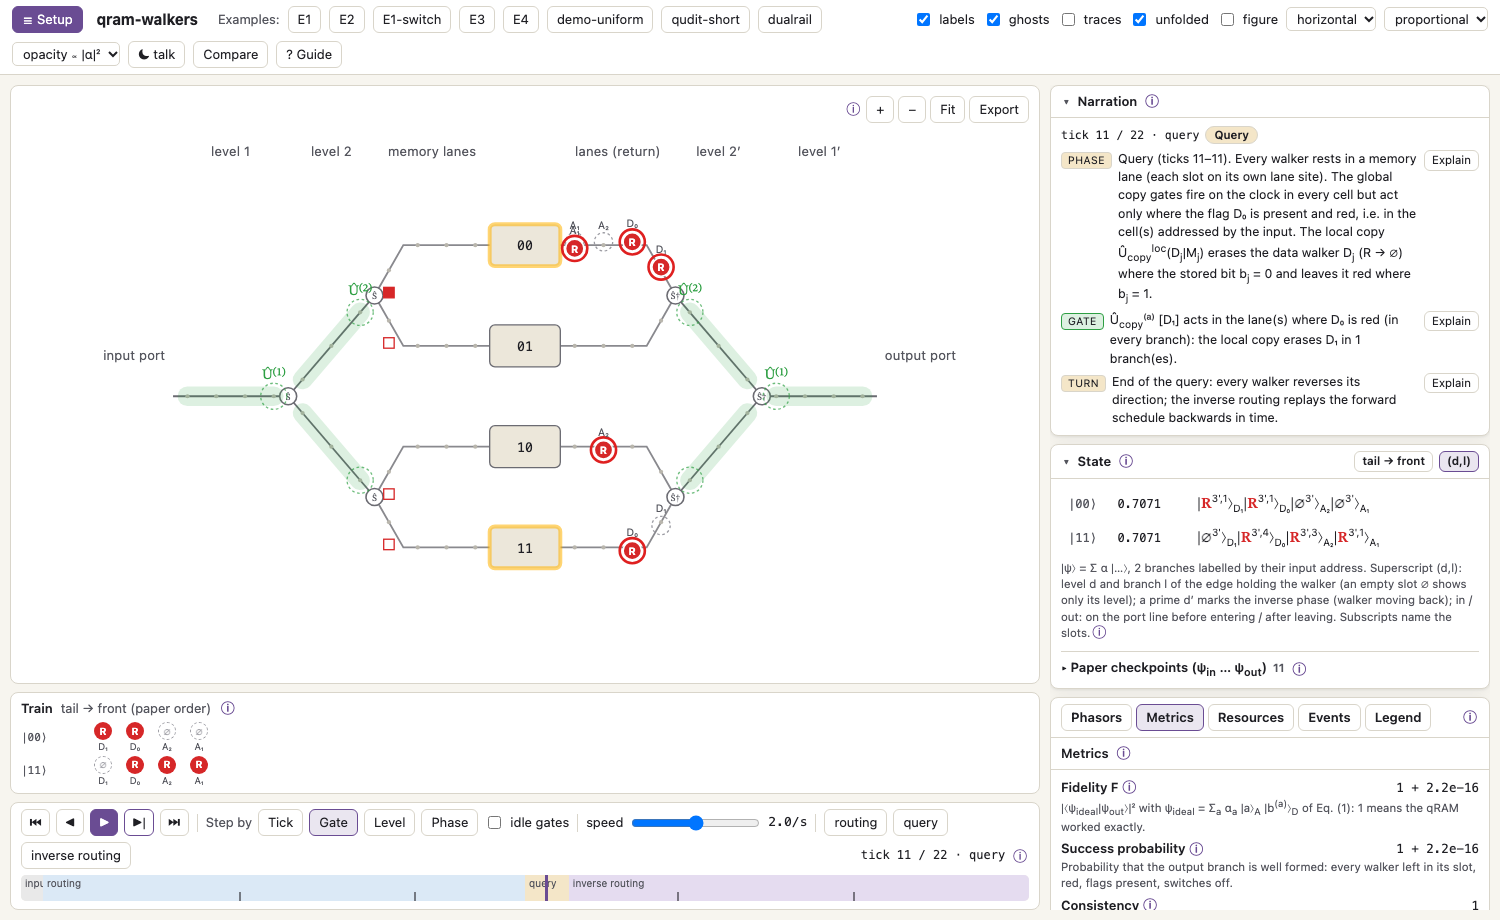
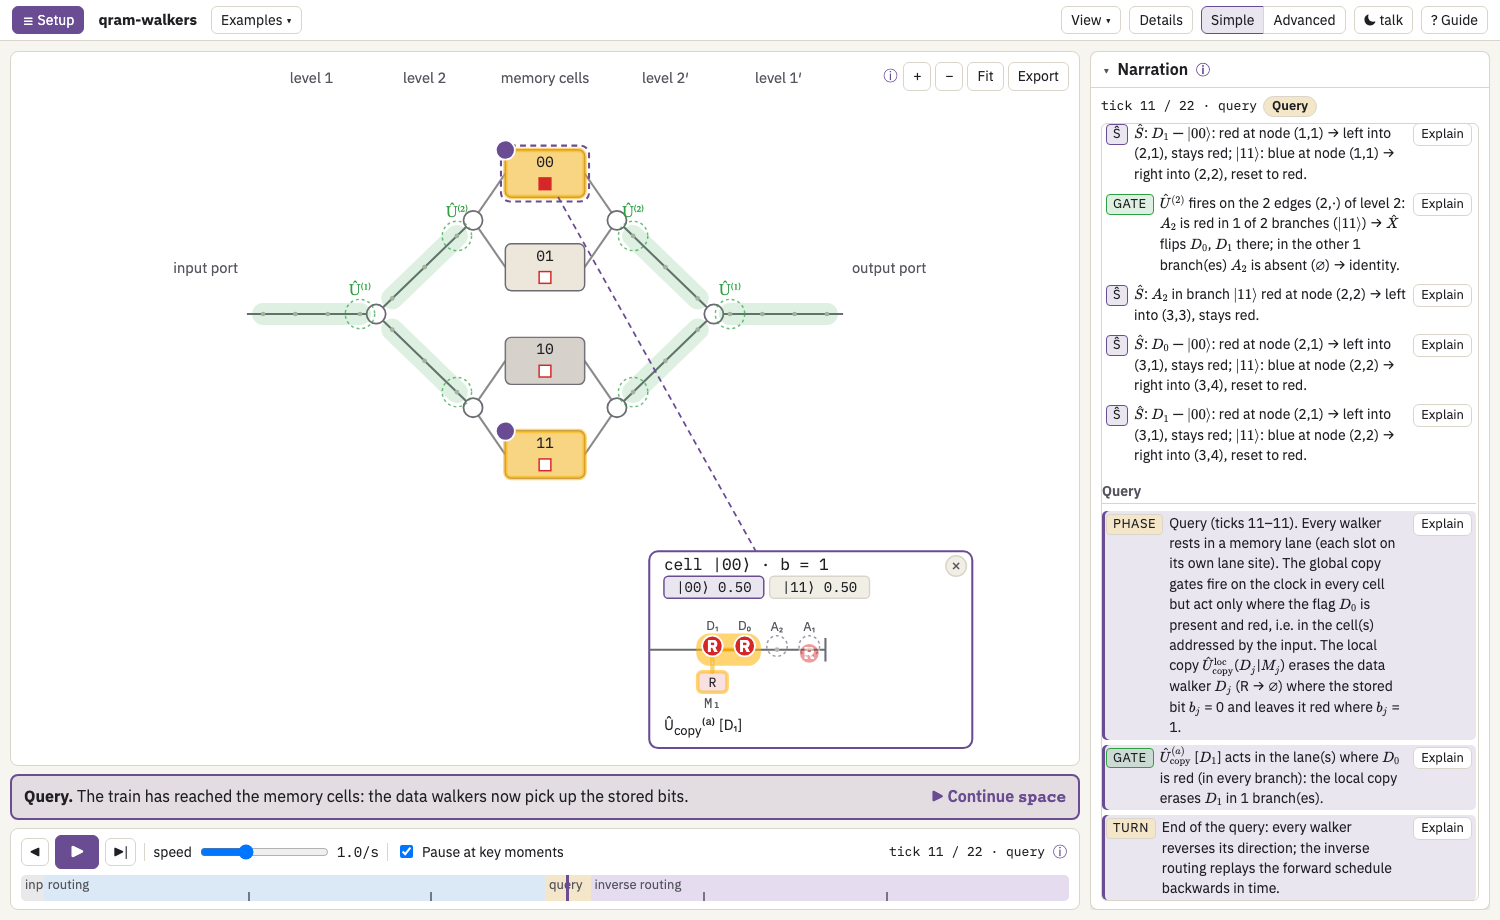
docs: the guide and the README describe Simple and Advanced modes

diff --git a/viewer/tests/guide.test.ts b/viewer/tests/guide.test.ts
@@ -13,7 +13,7 @@ const pages = Object.fromEntries(
 const REQUIRED: Record<string, string[]> = {
   start: ["start-tour", "start-help", "start-tasks"],
   controls: [
-    "controls", "controls-topbar", "controls-tree", "controls-export", "controls-playback", "controls-state", "controls-panels",
+    "controls", "controls-modes", "controls-topbar", "controls-tree", "controls-export", "controls-playback", "controls-state", "controls-panels",
     "controls-setup", "controls-input", "controls-memory", "controls-noise", "controls-options", "controls-presets",
     "controls-compare", "controls-guide",
   ],
@@ -38,7 +38,7 @@ const REQUIRED: Record<string, string[]> = {
     "noise-strays", "noise-collisions", "noise-absorb", "noise-ensembles",
     "noise-overrotation", "noise-imbalance", "noise-pruning",
   ],
-  ui: ["ui-canvas", "ui-export", "ui-figure", "ui-compare", "ui-static", "ui-playback", "ui-timeline", "ui-train", "ui-kets", "ui-phasors", "ui-narration", "ui-panels", "ui-events", "ui-legend", "ui-setup", "ui-memory", "ui-themes", "ui-keyboard", "ui-qudit", "ui-dualrail", "ui-lens"],
+  ui: ["ui-modes", "ui-canvas", "ui-export", "ui-figure", "ui-compare", "ui-static", "ui-playback", "ui-timeline", "ui-train", "ui-kets", "ui-phasors", "ui-narration", "ui-panels", "ui-events", "ui-legend", "ui-setup", "ui-memory", "ui-themes", "ui-keyboard", "ui-qudit", "ui-dualrail", "ui-lens"],
 };
 
 describe("user guide", () => {

diff --git a/docs/user-guide/controls.md b/docs/user-guide/controls.md
@@ -3,7 +3,28 @@
 Every button, field and menu of the interface, by where it is. Each one also has a tooltip;
 the [Interface](ui.md#ui-canvas) page explains what the drawings mean.
 
-## Top bar {#controls-topbar}
+## Simple and Advanced {#controls-modes}
+
+The interface has two modes, switched by **Simple** | **Advanced** in the top bar; the
+choice is remembered in this browser. **Simple**, the mode of a first visit, shows the
+tree large, a caption under it, the narration log and the few controls needed to watch a
+run; the other panels are one click away under **Details**. **Advanced** shows every panel
+and control at once. Both modes play the same run.
+
+| control (Simple) | what it does |
+|---|---|
+| **☰ Setup** | opens the [setup drawer](#controls-setup) |
+| **Examples** | a menu of ready-made [examples](#controls-presets), each with a one-line description; choosing one runs it |
+| **View** | a menu with the drawing options of the Advanced top bar: **labels**, **ghosts**, **traces**, **cell lens**, **unfolded**, **figure**, **orientation**, **spacing**, **opacity** (described [below](#controls-topbar)) |
+| **Details** | opens a drawer with the other panels, one at a time: **State**, **Metrics**, **Resources**, **Events**, **Phasors**, **Legend**, **Train** (the [train strip](ui.md#ui-train)); **×** or Esc closes it |
+| **Simple** / **Advanced** | switches mode |
+| **talk** / **paper** | the dark or the light theme |
+| **? Guide** | opens this guide |
+
+The Simple playback bar has ◀ and ▶| (one gate back or forward), ▶ / ⏸, **speed** and
+**Pause at key moments**, described [under Playback](#controls-playback).
+
+## Top bar (Advanced) {#controls-topbar}
 
 | control | what it does |
 |---|---|
@@ -19,6 +40,7 @@ the [Interface](ui.md#ui-canvas) page explains what the drawings mean.
 | **proportional** / **uniform** | edge lengths proportional to their number of sites, or all levels equally long |
 | **opacity ∝ \|α\|²** / **opacity ∝ \|α\|** | how strongly a branch is drawn according to its amplitude |
 | **talk** / **paper** | switches between the dark theme, for projectors, and the light one; the choice is remembered |
+| **Simple** / **Advanced** | switches [mode](#controls-modes) |
 | **Compare** | opens the [comparison](#controls-compare) of two variants |
 | **? Guide** | opens this guide |
 
@@ -59,7 +81,8 @@ the [Interface](ui.md#ui-canvas) page explains what the drawings mean.
 | **Level** | Shift + ← or → | a step goes to the next time the leading walker crosses a bifurcation |
 | **Phase** | | a step goes to the start of the next phase |
 | **idle gates** | | in Gate mode, also stops at gates that fired with no control walker to act on (they do nothing) |
-| **speed** | | clock ticks per second during playback |
+| **speed** | | clock ticks per second during playback (1 in Simple mode, 2 in Advanced, when the mode is chosen) |
+| **Pause at key moments** | | while playing, stops at the end of each level's gates, at the start of the query, at the start of the return trip and at the end, with a highlighted note under the tree; Space or a click on the note continues. On by default in Simple mode |
 | **routing**, **query**, **inverse routing** | | jump to the start of that phase |
 | counter | | the current tick and phase |
 | timeline | | click or drag to jump; the bands are the phases, the dark marks the gates that acted |
@@ -69,6 +92,7 @@ the [Interface](ui.md#ui-canvas) page explains what the drawings mean.
 | control | what it does |
 |---|---|
 | **▾** / **▸** on a panel | collapses or opens the panel |
+| a line of the narration | jumps to the tick of that event |
 | **Explain** | opens the guide at the definition of that event |
 | **tail → front** / **front → tail** | order of the factors in the kets: the paper's, or the train's |
 | **(d,l)** | shows or hides the position superscripts of the kets |

diff --git a/docs/user-guide/ui.md b/docs/user-guide/ui.md
@@ -5,6 +5,38 @@ colour and position you see comes from the engine; the viewer only draws and
 interpolates them. A run is chosen in **Setup**, computed by the engine, and then played
 back tick by tick.
 
+## Simple and Advanced {#ui-modes}
+
+**Simple** mode, the one of a first visit, is made for watching: the tree takes most of
+the window, a **caption** under it says in one sentence what is happening, the
+[narration](#ui-narration) log on the right keeps every sentence so far, and playback
+stops at the key moments of the run. The other panels are in the **Details** drawer, one at
+a time, and the drawing options in the **View** menu. **Advanced** mode shows everything
+at once: the train strip, the playback modes, the ket panel and the side tabs. The switch
+is in the top bar; the [Controls](controls.md#controls-modes) page lists what each mode
+has.
+
+**Guided playback.** With **Pause at key moments** ticked (the default in Simple mode),
+playback stops
+
+* at the end of the gates of each level, when the address walker $A_d$ has acted on the
+  walkers behind it;
+* when the train reaches the memory cells (the query);
+* when it turns back (the return trip, the exact time reversal of the routing);
+* at the end, when every walker has left the tree.
+
+A highlighted note under the tree says what has just happened; **Space** or a click on the
+note continues. Stepping and the timeline never stop at these moments.
+
+**Narrow windows.** Under 1100 pixels of width the panels move below the tree, which keeps
+at least 60% of the height of the window; scroll down to reach them.
+
+**Text size.** No text is drawn smaller than 13 pixels. When the tree is small on screen
+its labels are scaled back up; what then does not fit is shortened ("level 1" becomes "1",
+"input port, ↑ tree (logical 0)" becomes "input ↑") or left out (the letters inside the
+walkers and the nodes, the slot names, the cell addresses, gate labels that would overlap).
+Zoom in to see them again. Exports always carry every label at its natural size.
+
 ## The tree view {#ui-canvas}
 
 The centre of the screen is the binary tree in the **unfolded "H" layout**:
@@ -257,10 +289,14 @@ input superposition carried by the walkers.
 
 ## Narration {#ui-narration}
 
-Every event of the current tick explained in one sentence: which gate fired, on which
-edges, in which branches it acted and on which walkers; which walker crossed which
-bifurcation and where it went; injections, exits, phase changes. **Explain** opens the
-guide at the definition of the gate or phase.
+A log of the run so far, one sentence per event: which gate fired, on which edges, in
+which branches it acted and on which walkers; which walker crossed which bifurcation and
+where it went; injections, exits, phase changes. New lines appear at the bottom as the run
+advances and the log scrolls to keep them in view; the lines of the current tick are
+highlighted. Headers divide the log into the levels of the routing (**Level 1**,
+**Level 2**, …), the **Query** and the **Return** trip. Click a line to go back to its tick;
+**Explain** opens the guide at the definition of the gate or phase. Stepping back shortens
+the log to the current tick.
 
 ## Side panels {#ui-panels}
 
@@ -328,9 +364,9 @@ this browser.
 
 | key | action |
 |---|---|
-| Space | play / pause |
+| Space | play / pause; at a key moment of guided playback, continue |
 | → / ← | step forward / back in the current step mode |
 | Shift + → / ← | step by level |
 | Home / End | input / output state |
 | ? | open this page |
-| Esc | close the guide or the setup drawer |
+| Esc | close the guide, the setup drawer, the Details drawer or an open menu |

diff --git a/docs/user-guide/start.md b/docs/user-guide/start.md
@@ -12,19 +12,24 @@ companion with the gate tables of every variant, the *technical paper* (in prepa
 
 ## A two-minute tour {#start-tour}
 
-1. Click **E1** in the top bar: a classical address, $a = 10$. On the left of the tree the train
-   waits at the input port.
-2. Press **Space**. The train enters, the walkers change colour, the train splits at the
-   bifurcations, the data walker reaches cell $10$, reads the stored bit and everything comes
-   back. Press Space again to pause.
-3. Press **Home** and then **→** a few times: each step stops at the next gate that acted, and
-   the **Narration** panel says in words what happened. **Explain** opens the definition of
-   that gate here in the guide. The **State** panel shows the ket, in the paper's notation.
-4. Click **E2**: now the address is $(\ket{00} + \ket{11})/\sqrt2$. Each branch is drawn separately;
-   click a line in the State panel to highlight one branch and dim the other.
+The program opens in **Simple** mode on the example **E1**: a classical address, $a = 10$,
+and one stored bit per cell. On the left of the tree the train waits at the input port.
+
+1. Press **Space** (or ▶). The train enters, the walkers change colour, the train splits at
+   the bifurcations. Playback stops at the key moments (the end of each level, the query,
+   the return, the end) with a note under the tree; **Space** continues. The data walker
+   reaches cell $10$, reads the stored bit and everything comes back.
+2. The **Narration** log on the right keeps every sentence so far, under the headers
+   **Level 1**, **Level 2**, **Query**, **Return**. Click a line to go back to that tick;
+   **Explain** opens the definition of that gate here in the guide.
+3. Press **←** and **→**: each step goes to the previous or next gate that acted.
+   **Details** → **State** shows the quantum state of the walkers, in the paper's notation.
+4. In **Examples** choose **E2**: now the address is $(\ket{00} + \ket{11})/\sqrt2$. Each
+   branch is drawn separately.
 5. Open **☰ Setup** and change anything: the variant, the address bits, the memory, the noise.
    **Run** at the bottom computes it.
-6. Click **Compare** to watch the same input on another variant, on one clock.
+6. Switch to **Advanced** in the top bar to see every panel at once, the step modes and
+   **Compare**, which plays the same input on another variant, on one clock.
 
 Every number and position you see is computed by the simulation engine; the interface only
 draws them.
@@ -33,7 +38,8 @@ draws them.
 
 * **Hover** over any control: a tooltip says what it does.
 * **ⓘ** next to a panel or a control opens the guide at the right place.
-* **Explain** in the Narration panel opens the definition of what just happened.
+* **Explain** in the Narration log opens the definition of what just happened.
+* [Simple and Advanced](ui.md#ui-modes) explains the two modes of the interface.
 * The [Controls](controls.md#controls) page describes every button, field and menu.
 
 ## I want to… {#start-tasks}

diff --git a/README.md b/README.md
@@ -14,7 +14,12 @@ The protocol is described in the letter arXiv:2508.02855 (*the paper*) and in a 
 *technical paper* (in preparation), with the gate tables of every variant; the guide cites
 them as "the paper" and "technical paper, §Section".
 
-![The viewer on the worked example E2](docs/figures/app.png)
+![The viewer in Simple mode on the worked example E2, paused when the train reaches the memory cells](docs/figures/app.png)
+
+The viewer opens in **Simple** mode: a large tree, a caption, the narration as a log and
+pauses at the key moments of the run. **Advanced** mode shows every panel at once:
+
+![The viewer in Advanced mode on the worked example E2, during the query](docs/figures/app-advanced.png)
 
 ## Install and run
 
@@ -40,6 +45,8 @@ Step by step, with troubleshooting: **[INSTALL.md](INSTALL.md)**.
   backup, checked against Eq. (1) of the paper exactly.
 * **Any input**: superpositions of addresses with your own amplitudes, any memory contents.
 * **The state at every tick**, in the paper's ket notation, with a sentence for every event.
+* **Two modes**: Simple, for watching a run with pauses at its key moments, and Advanced, with
+  every panel and control at once.
 * **Noise**: loss, flips, dephasing, depolarising, gate and clock errors, memory errors and coherent
   errors, sampled with quantum jumps; ensembles and sweeps.
 * **Metrics and resources**: fidelity, success, consistency, entanglement entropy, heralded
